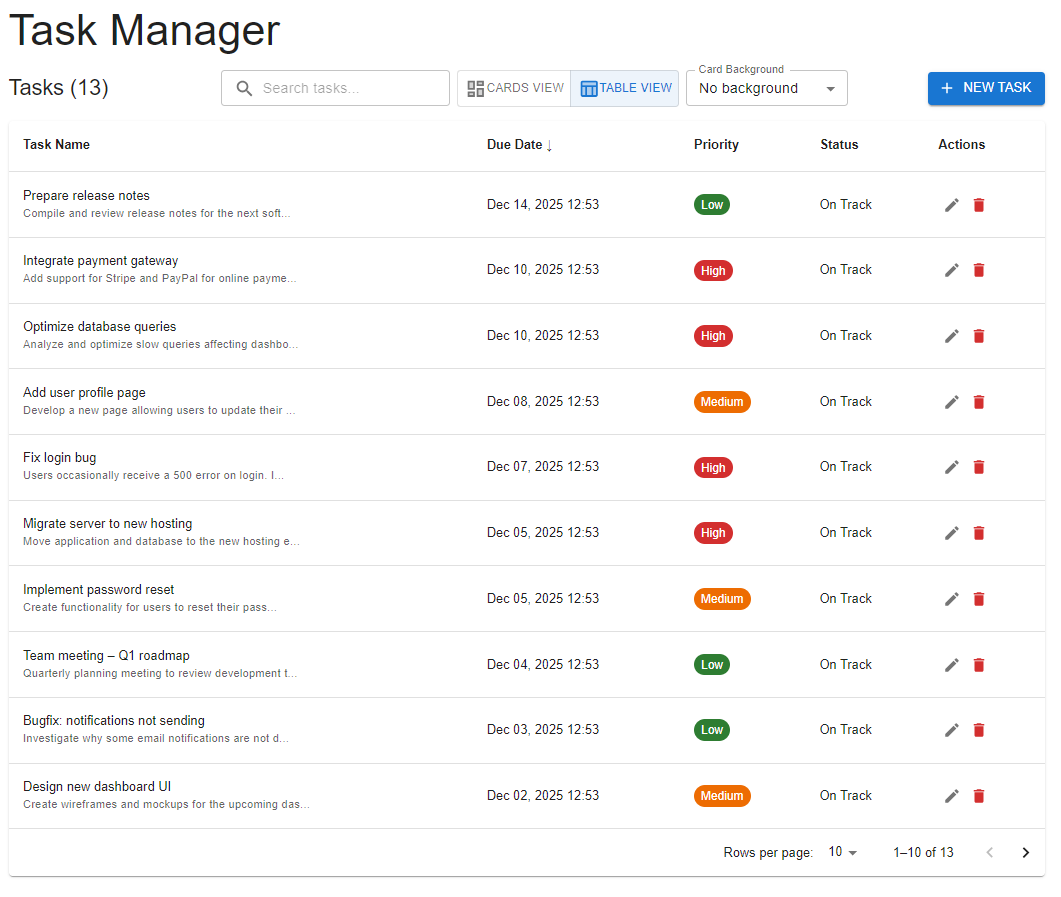
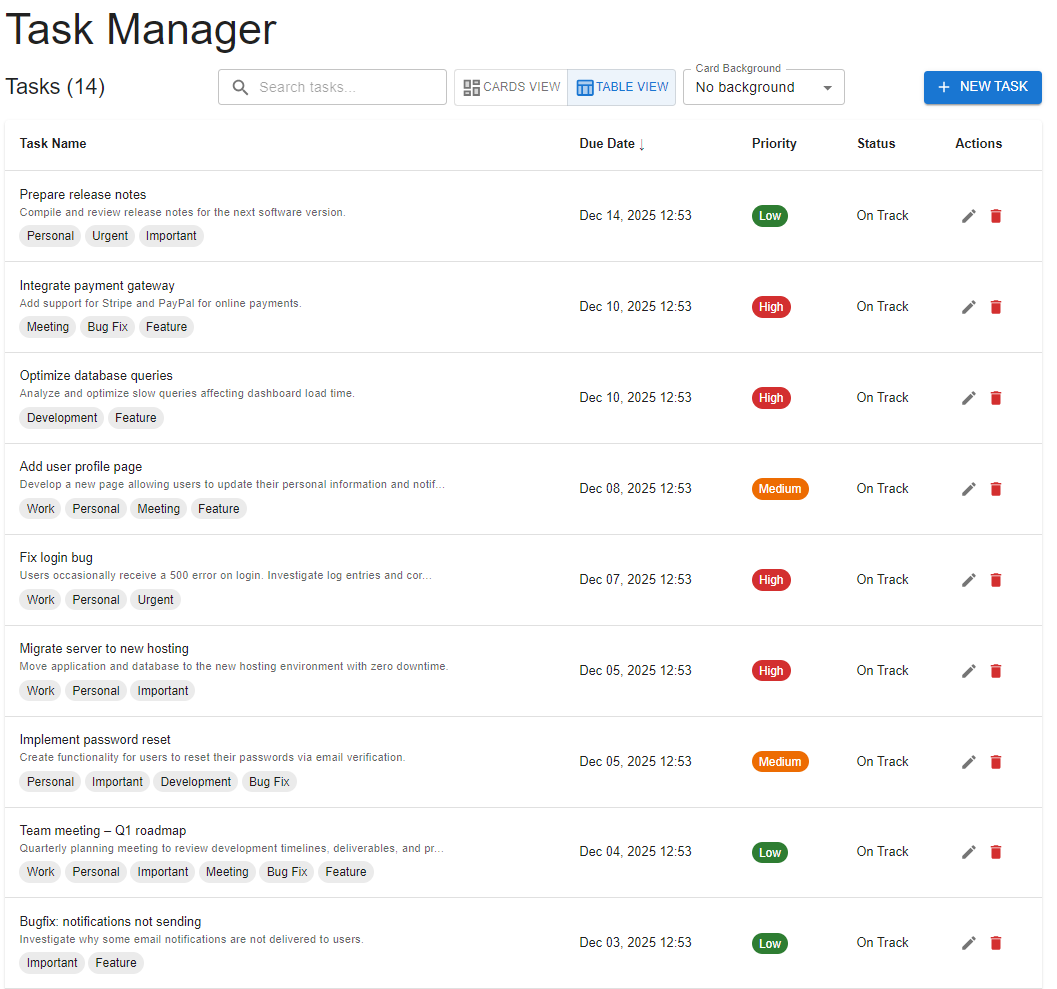
images

diff --git a/Frontend/task-manager-ui/src/components/TaskList.tsx b/Frontend/task-manager-ui/src/components/TaskList.tsx
@@ -291,9 +291,14 @@ const TaskList: React.FC<TaskListProps> = ({ onOpenForm }) => {
                         <Typography variant="body2" fontWeight="500">{task.title}</Typography>
                         {task.description && (
                           <Typography variant="caption" color="text.secondary" display="block">
-                            {task.description.substring(0, 50)}{task.description.length > 50 && "..."}
+                            {task.description.substring(0, 80)}{task.description.length > 80 && "..."}
                           </Typography>
                         )}
+                         <Box sx={{ display: 'flex', gap: 0.5, flexWrap: 'wrap', mt: 0.5 }}>
+                          {task.tags.map(tag => (
+                            <Chip key={tag.id} label={tag.name} size="small" />
+                          ))}
+                        </Box>
                       </TableCell>
                       <TableCell>
                         {format(new Date(task.dueDate), "MMM dd, yyyy HH:mm")}
